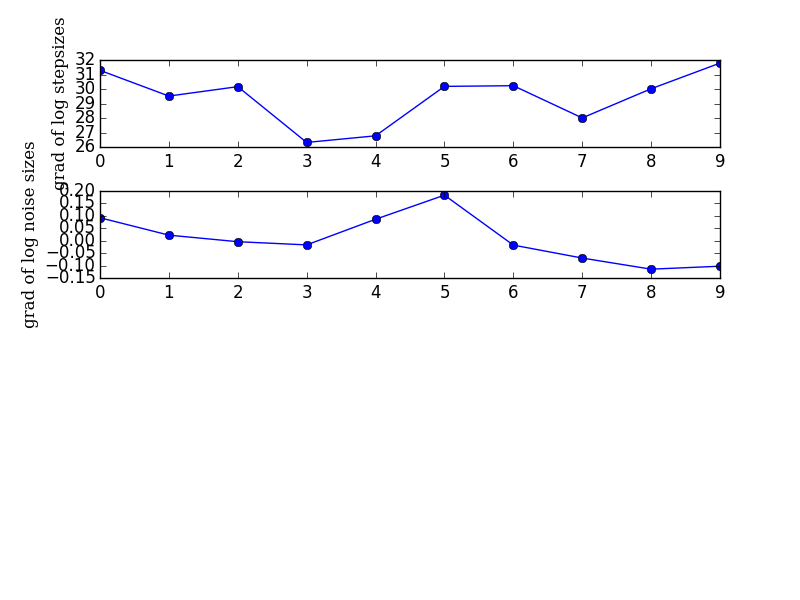
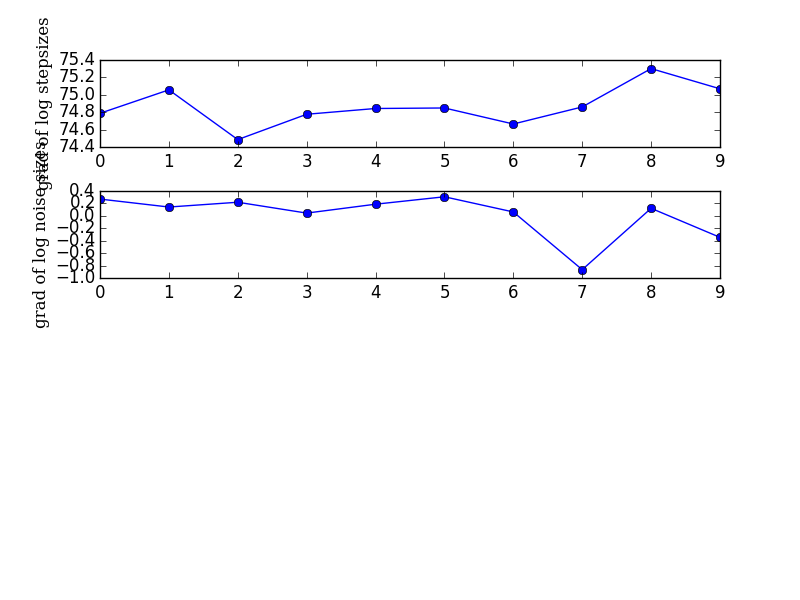
Added gradient power to prevent runaway langevin dynamics

diff --git a/autopaint/inference.py b/autopaint/inference.py
@@ -1,7 +1,7 @@
 import autograd.numpy as np
-from autograd import grad, elementwise_grad
+from autograd import elementwise_grad
 
-from .util import WeightsParser, fast_array_from_list,\
+from .util import WeightsParser, fast_array_from_list, sigmoid,\
     entropy_of_a_diagonal_gaussian, entropy_of_a_spherical_gaussian
 
 
@@ -95,6 +95,7 @@ def build_langevin_sampler(loglik_func, D, num_steps, approx):
     parser.add_shape('log_stepsizes', num_steps)
     parser.add_shape('log_noise_sizes', num_steps)
     parser.add_shape('log_gradient_scales', D)
+    parser.add_shape('invsig_gradient_power', 1)
 
     gradfun = elementwise_grad(loglik_func)
 
@@ -104,8 +105,15 @@ def build_langevin_sampler(loglik_func, D, num_steps, approx):
         stepsizes = np.exp(parser.get(params, 'log_stepsizes'))
         noise_sizes = np.exp(parser.get(params, 'log_noise_sizes'))
         gradient_scales = np.exp(parser.get(params, 'log_gradient_scales'))
+        gradient_power = sigmoid(parser.get(params, 'invsig_gradient_power'))
 
-        scaled_gradfun = lambda x: gradfun(x) * gradient_scales
+        def scaled_gradfun(x):
+            # Todo:  Think about whether this should go inside gradfun,
+            # or in the step-size calculation. (and re-check bounds).
+            # Should we also scale the gradient before we apply the power?
+            gradient = gradfun(x)
+            gradient_magnitude = np.sqrt(np.sum(gradient**2, 1, keepdims=1))
+            return gradient_scales * gradient * gradient_magnitude**(gradient_power - 1.0)
 
         initial_entropies = np.full(num_samples, entropy_of_a_diagonal_gaussian(stddevs))
         init_xs = mean + rs.randn(num_samples, D) * stddevs

diff --git a/experiments/3-gen-images/5-just-gaussian-prior/main.py b/experiments/3-gen-images/5-just-gaussian-prior/main.py
@@ -9,7 +9,8 @@ from autograd import value_and_grad
 import matplotlib.pyplot as plt
 import matplotlib.image
 
-from autopaint.util import build_logprob_mvn, log_normalizing_constant_of_a_guassian, entropy_of_a_gaussian
+from autopaint.util import build_logprob_mvn, log_normalizing_constant_of_a_guassian, entropy_of_a_gaussian,\
+    sigmoid, inv_sigmoid
 from autopaint.plotting import plot_images
 from autopaint.inference import build_langevin_sampler
 
@@ -81,6 +82,7 @@ if __name__ == '__main__':
     init_init_stddev_scale = 10.0
     init_langevin_stepsize = 0.001
     init_langevin_noise_size = 0.01
+    init_gradient_power = 0.5
 
     with open('mnist_models.pkl') as f:
         trained_weights, all_mean, all_cov = pickle.load(f)
@@ -109,6 +111,7 @@ if __name__ == '__main__':
     parser.put(sampler_params, 'log_stepsizes', init_log_stepsizes)
     parser.put(sampler_params, 'log_noise_sizes', init_log_noise_sizes)
     parser.put(sampler_params, 'log_gradient_scales', init_log_gradient_scales)
+    parser.put(sampler_params, 'invsig_gradient_power', inv_sigmoid(init_gradient_power))
 
     rs = np.random.npr.RandomState(0)
     def batch_marginal_likelihood_estimate(sampler_params):
@@ -128,6 +131,7 @@ if __name__ == '__main__':
     for i in xrange(num_sampler_optimization_steps):
         ml, dml = ml_and_grad(sampler_params)
         print "Iter:", i, "log marginal likelihood:", ml, "avg gradient size: ", np.mean(np.abs(dml))
+        print "Gradient power:", sigmoid(parser.get(sampler_params, 'invsig_gradient_power'))
         plot_sampler_params(sampler_params)
         plot_sampler_param_grads(dml)
 

diff --git a/autopaint/util.py b/autopaint/util.py
@@ -115,3 +115,9 @@ def low_variance_gradient_estimator(grad_entropies, grad_likelihoods):
         From eqn (8) of http://arxiv.org/pdf/1401.1022v3.pdf"""
     empirical_entropy_grad_mean = np.mean(grad_entropies)
     return np.mean((grad_entropies - empirical_entropy_grad_mean)*(grad_entropies + grad_likelihoods))
+
+def sigmoid(x):
+    return 0.5*(np.tanh(x) + 1.0)
+
+def inv_sigmoid(x):
+    return np.arctanh(2.0 * x - 1.0)
